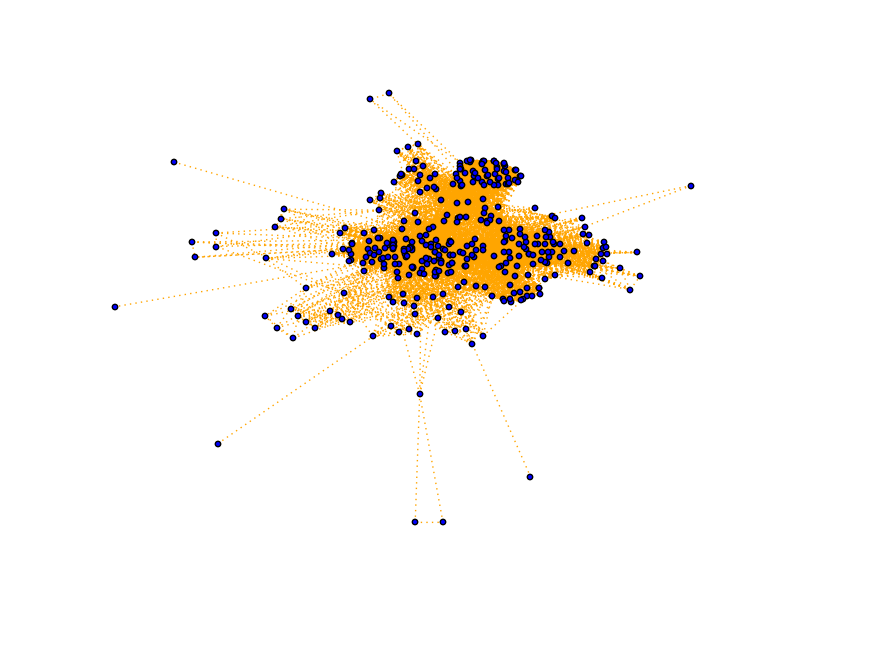
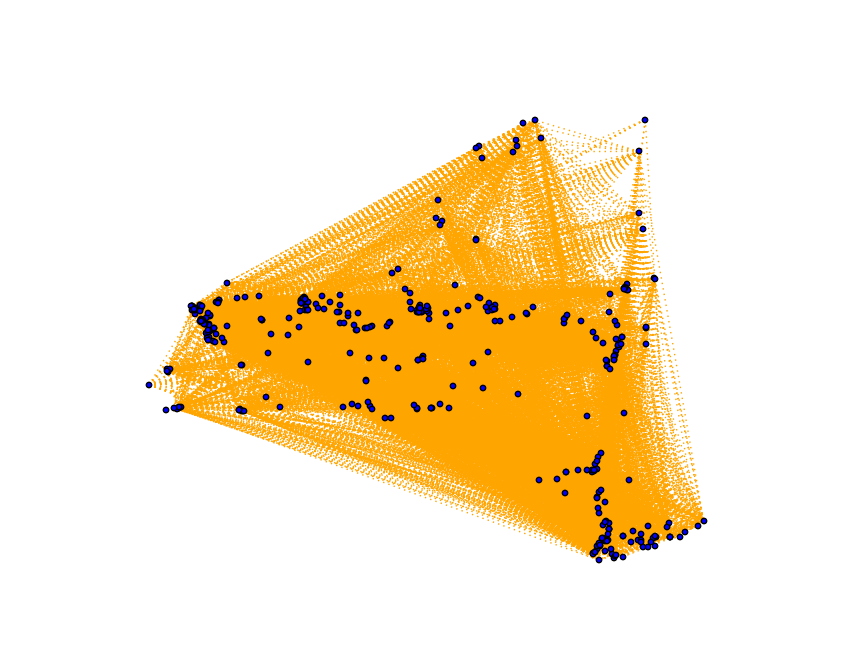
Adds location data to network

Changed region(s): [[0.154, 0.184, 0.8318, 0.8589], [0.4313, 0.1227, 0.4621, 0.184], [0.1232, 0.4601, 0.154, 0.4908]]

diff --git a/buildNetwork.py b/buildNetwork.py
@@ -7,6 +7,17 @@ import matplotlib.pyplot as plt
 from collections import defaultdict
 pd.set_option('display.width', 200)
 
+def visualize(G):
+	'''
+	Build and visualize network 
+	'''
+	for e in common:
+		G.add_edge(e[0],e[1],weight=len(common[e]))
+
+	plt.figure()
+	nx.draw(G, pos=nodePos, node_color='blue', node_size=15, style='dotted', edge_color='orange')
+	plt.savefig('output/network.png', bbox_inches='tight')
+
 def topdict(d,tn):
 	'''
 	Returns top tn centrality scores, given the dictionary d
@@ -23,19 +34,19 @@ def bottomdict(d,tn):
 	for i in range(0,tn):
 		print('{0}|{1}:{2},{3}'.format(i+1,ind[i],d[ind[i]],fac[ind[i]]))
 
+# Read data
 ny_tri = pd.read_csv('data/toxic-release-inventory.ny.2013.geoid.csv')
 ny_tri_trim = ny_tri[['tri_facility_id','facility_name','county','n_5_2_stack_air', 'chemical', 'latitude', 'longitude']]
-ny_tri_trim = ny_tri_trim[ny_tri_trim['facility_name']!='NATIONAL GRID WADING RIVER IC FACILITY']
-
+ny_tri_trim = ny_tri_trim[ny_tri_trim['facility_name']!='NATIONAL GRID WADING RIVER IC FACILITY']  # Null value for location
+ny_tri_trim = ny_tri_trim[ny_tri_trim['facility_name']!='EMAGIN CORP']  # Null value for location
 ny_group = ny_tri_trim.groupby(['facility_name', 'chemical'], as_index=False).aggregate(np.sum)
-#print ny_group.head()
 
+# Create chemical table, single record per facility.
 chemicals_pivot = ny_group.pivot(index='facility_name', columns='chemical', values='n_5_2_stack_air')
-#print chemicals_pivot.head()
 
+# Create location dictionary
 latLon = ny_tri_trim[['facility_name', 'longitude', 'latitude']].set_index('facility_name').drop_duplicates()
-# for i in latLon.index:
-#     print i, latLon.longitude[i],latLon.latitude[i]
+nodePos = latLon.T.to_dict('list')
 
 # Dictionary of {facility: [chemicals]} resulting in 377 facilities
 fac = defaultdict(list)
@@ -54,19 +65,14 @@ for i in fac:
                     if x == y:
                     	common[(i,j)].append(x)
 
-# Build network
 G = nx.Graph()
-for e in common:
-    G.add_edge(e[0],e[1],weight=len(common[e]))
 
-# Visualize network
-plt.figure()
-nx.draw(G, node_color='blue', node_size=15, style='dotted', edge_color='orange')
-plt.savefig('output/network.png', bbox_inches='tight')
+# Build network and visualize
+visualize(G)
 
-# Output top tn centrality scores, given the dictionary d
 c1= nx.degree(G)
-topdict(c1,10)
+# Output top tn centrality scores, given the dictionary d
+#topdict(c1,10)
 
 # Output bottom tn centrality scores, given the dictionary d
-bottomdict(c1,20)
+#bottomdict(c1,20)
